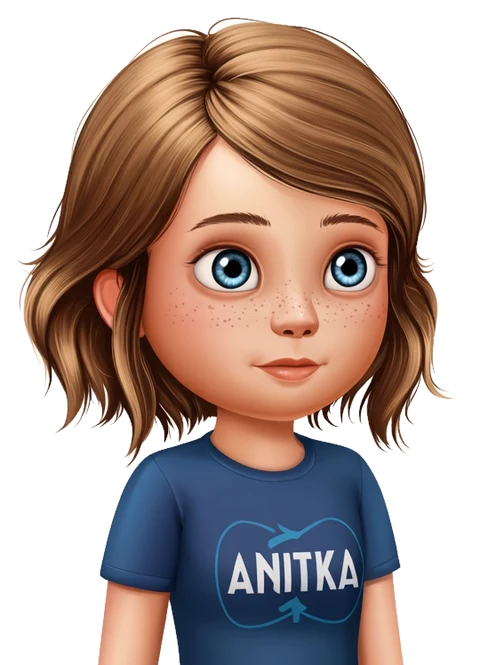
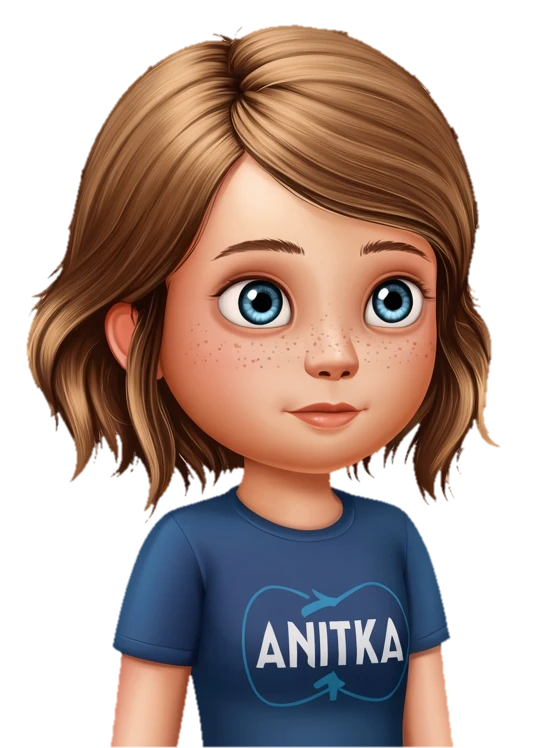
Fix mascot: repair corrupted full.webp, cut background cleanly, mark binaries in gitattributes
The text eol=lf rule rewrote bytes of anitka-mascot-full.webp at commit time,
so it no longer decoded and the guide showed no mascot. Binary file types are
now marked binary, and both mascot images are cut out again without the white
fringe (checked on navy and white).

diff --git a/docs/07_CHANGELOG.md b/docs/07_CHANGELOG.md
@@ -1,3 +1,10 @@
+## 2026-10-11 — Oprava: maskot v průvodci a čisté pozadí maskota
+
+- **Problém (vlastník):** po nasazení se maskot v průvodci nezobrazoval a na tmavém pozadí byl kolem postavy vidět kostrbatý bílý rámeček.
+- **Příčina chybějícího maskota:** `.gitattributes` (`* text eol=lf`) bral i binární soubory jako text; při commitu se `anitka-mascot-full.webp` přepsal (33 942 → 33 941 B) a v repozitáři měl poškozenou hlavičku (sharp: *corrupt header*), takže ho prohlížeč nezobrazil. Intro používá druhý soubor, kterého se to nedotklo.
+- **Oprava:** `.gitattributes` označuje `*.webp/png/jpg/jpeg/gif/ico/woff/woff2/pdf` jako `binary`. Oba obrázky maskota vyříznuty znovu z reference: pozadí se odstraní plavením od okraje (oči a nápis na tričku zůstávají), bělavé kapsy mezi prameny vlasů u obrysu se odstraní, okraj se o pixel zúží, změkčí a jeho barvy se dopočítají z vnitřku postavy, takže nezůstává bílý lem. Zkontrolováno na navy i bílém pozadí; soubory v repozitáři se dekódují.
+- **Ověřeno:** v Chromiu (lokální databáze, testovací účty smazány) intro v tmavém režimu bez rámečku a průvodce s maskotem ve všech 11 krocích. **Neověřeno:** nasazená verze a fyzický telefon.
+
 ## 2026-10-11 — Oprava selektoru E2E testu úvodní obrazovky
 
 - CI #1361 selhalo v testu `public intro is reachable`, protože `getByText('ANITKA')` odpovídalo dvěma prvkům: textu „Powered by ANITKA AI“ i nadpisu „Ahoj, já jsem Anitka!“. Nešlo o chybu zobrazení stránky, ale o nejednoznačný Playwright selektor.
